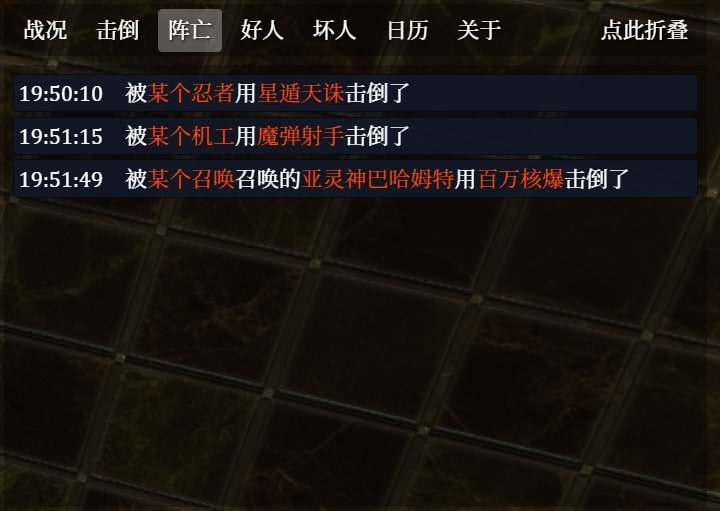
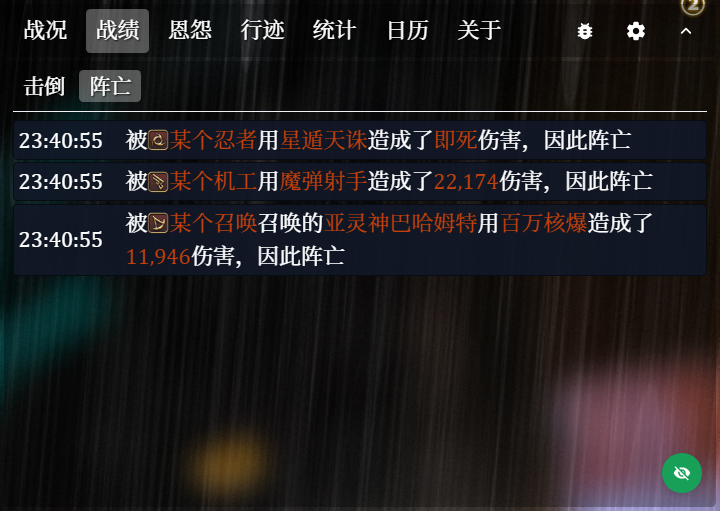
1

diff --git a/src/composables/useCombatParser.ts b/src/composables/useCombatParser.ts
@@ -1088,6 +1088,8 @@ const useCombatParser = () => {
     // 处理基本战斗数据
     combatData.zone = Frontline.seize
     combatData.onConflict = true
+    combatData.playerId ||= 'SELF'
+    combatData.playerName ||= 'SELF'
 
     // 生成“战况”调试数据
     Object.entries(combatData.pointMap).forEach(([key, val]) => {
@@ -1107,6 +1109,162 @@ const useCombatParser = () => {
       owner: GrandCompany.immoflame
     }
     combatData.prePoints.push(createPrePoint('A4', 15))
+
+    // 生成“战绩”调试数据
+    const timeGap = 1000 * 35
+    combatData.allPlayersDeaths = [
+      {
+        happenTime: Date.now(),
+        victimName: '无辜路人01',
+        victimJob: 24,
+        summonedBy: combatData.playerName,
+        perpetratorName: '亚灵神巴哈姆特',
+        perpetratorJob: 42,
+        lasthitActionName: '百万核爆',
+        lasthitActionDamage: 11627,
+        lasthitActionInstantDeath: false,
+      },
+      {
+        happenTime: Date.now() + timeGap,
+        victimName: '无辜路人02',
+        victimJob: 19,
+        perpetratorName: combatData.playerName,
+        perpetratorJob: 42,
+        lasthitActionName: '山崩',
+        lasthitActionDamage: 6742,
+        lasthitActionInstantDeath: false,
+      },
+      {
+        happenTime: Date.now() + timeGap * 2,
+        victimName: combatData.playerName,
+        victimJob: 42,
+        perpetratorName: '某个忍者',
+        perpetratorJob: 30,
+        lasthitActionName: '星遁天诛',
+        lasthitActionDamage: 0,
+        lasthitActionInstantDeath: true,
+      },
+      {
+        happenTime: Date.now() + timeGap * 3,
+        victimName: '无辜路人03',
+        victimJob: 20,
+        perpetratorName: combatData.playerName,
+        perpetratorJob: 42,
+        lasthitActionName: '死星核爆',
+        lasthitActionDamage: 9144,
+        lasthitActionInstantDeath: false,
+      },
+      {
+        happenTime: Date.now() + timeGap * 4,
+        victimName: '无辜路人04',
+        victimJob: 21,
+        perpetratorName: combatData.playerName,
+        perpetratorJob: 42,
+        lasthitActionName: '毁绝',
+        lasthitActionDamage: 2415,
+        lasthitActionInstantDeath: false,
+      },
+      {
+        happenTime: Date.now() + timeGap * 5,
+        victimName: '无辜路人05',
+        victimJob: 22,
+        perpetratorName: combatData.playerName,
+        perpetratorJob: 42,
+        lasthitActionName: '彗星',
+        lasthitActionDamage: 8921,
+        lasthitActionInstantDeath: false,
+      },
+      {
+        happenTime: Date.now() + timeGap * 2,
+        victimName: combatData.playerName,
+        victimJob: 42,
+        perpetratorName: '某个机工',
+        perpetratorJob: 31,
+        lasthitActionName: '魔弹射手',
+        lasthitActionDamage: 22174,
+        lasthitActionInstantDeath: false,
+      },
+      {
+        happenTime: Date.now() + timeGap * 2,
+        victimName: combatData.playerName,
+        victimJob: 42,
+        summonedBy: '某个召唤',
+        perpetratorName: '亚灵神巴哈姆特',
+        perpetratorJob: 27,
+        lasthitActionName: '百万核爆',
+        lasthitActionDamage: 11946,
+        lasthitActionInstantDeath: false,
+      },
+    ]
+
+    // 生成“恩怨”调试数据
+    combatData.goodboys = [
+      {
+        happenTime: Date.now(),
+        targetName: '好心白魔',
+        targetJob: 24,
+        actionName: '水流幕',
+        actionDamage: 0,
+      },
+      {
+        happenTime: Date.now() + timeGap * 1,
+        targetName: '好心召唤',
+        targetJob: 27,
+        actionName: '守护之光',
+        actionDamage: 0,
+      },
+      {
+        happenTime: Date.now() + timeGap * 2,
+        targetName: '骑士',
+        targetJob: 19,
+        actionName: '卫护',
+        actionDamage: 0,
+      },
+      {
+        happenTime: Date.now() + timeGap * 3,
+        targetName: '好心白魔',
+        targetJob: 24,
+        actionName: '救疗',
+        actionDamage: 12000,
+      },
+    ]
+    combatData.badboys = [
+      {
+        happenTime: Date.now() + timeGap * 4,
+        targetName: '狗战士',
+        targetJob: 21,
+        actionName: '献身',
+        actionDamage: 0,
+      },
+      {
+        happenTime: Date.now() + timeGap * 5,
+        targetName: '狗骑士',
+        targetJob: 19,
+        actionName: '全力挥打',
+        actionDamage: 1260,
+      },
+      {
+        happenTime: Date.now() + timeGap * 6,
+        targetName: '狗武僧',
+        targetJob: 20,
+        actionName: '陨石冲击',
+        actionDamage: 11842,
+      },
+      {
+        happenTime: Date.now() + timeGap * 7,
+        targetName: '组排机工1',
+        targetJob: 31,
+        actionName: '魔弹射手',
+        actionDamage: 16742,
+      },
+      {
+        happenTime: Date.now() + timeGap * 7,
+        targetName: '组排机工2',
+        targetJob: 31,
+        actionName: '魔弹射手',
+        actionDamage: 24716,
+      },
+    ]
 
     // 生成“统计”调试数据
     if (!combatData.frontlineLog.length) {

diff --git a/README.md b/README.md
@@ -31,8 +31,6 @@
 
 ## 主要功能
 
-下方截图部分来自早期版本，实际安装后的UI细节可能与其有所差异。
-
 <table>
   <tr>
     <th colspan="2"><strong>实时查看刷点状况和点分预估</strong></th>
@@ -58,11 +56,12 @@
     <td><img alt="App Preview: Badboy" src="./docs/image/app_preview/badboy.jpg" /></td>
   </tr>
   <tr>
-    <th colspan="2"><strong>记录、统计和分析本日战绩</strong></th>
+    <th><strong>记录发动的关键技能</strong></th>
+    <th><strong>记录、统计和分析本日战绩</strong></th>
   </tr>
   <tr>
-    <td><img alt="App Preview: Statistics 1" src="./docs/image/app_preview/statistics_1.jpg" /></td>
-    <td><img alt="App Preview: Statistics 2" src="./docs/image/app_preview/statistics_2.jpg" /></td>
+    <td><img alt="App Preview: Important Action Log" src="./docs/image/app_preview/iar.png" /></td>
+    <td><img alt="App Preview: Statistics" src="./docs/image/app_preview/statistics.jpg" /></td>
   </tr>
   <tr>
     <th><strong>展示当前战场和未来战场</strong></th>
